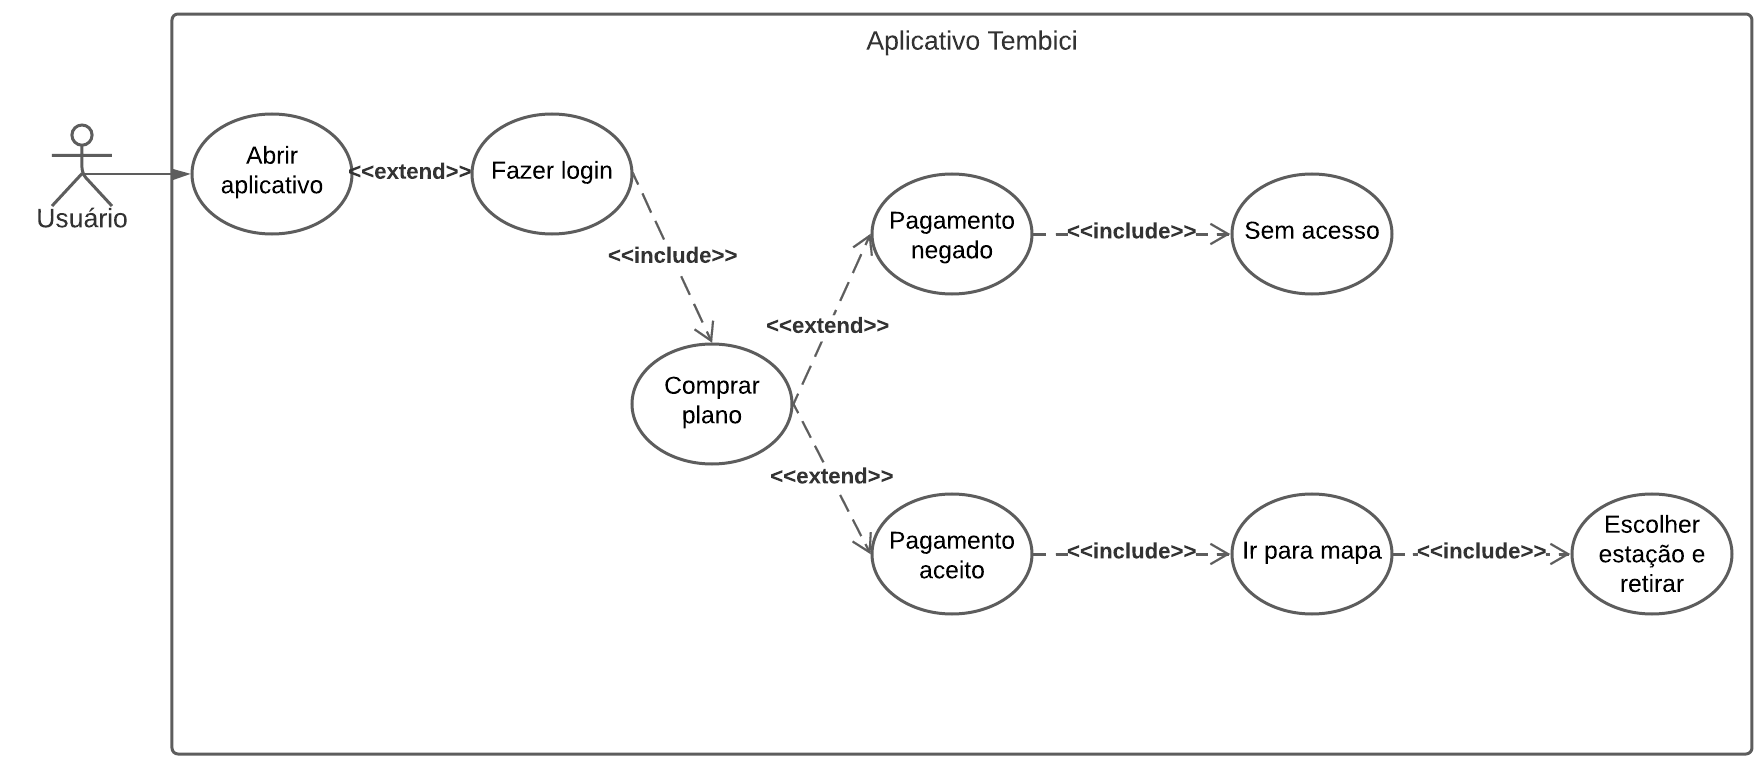
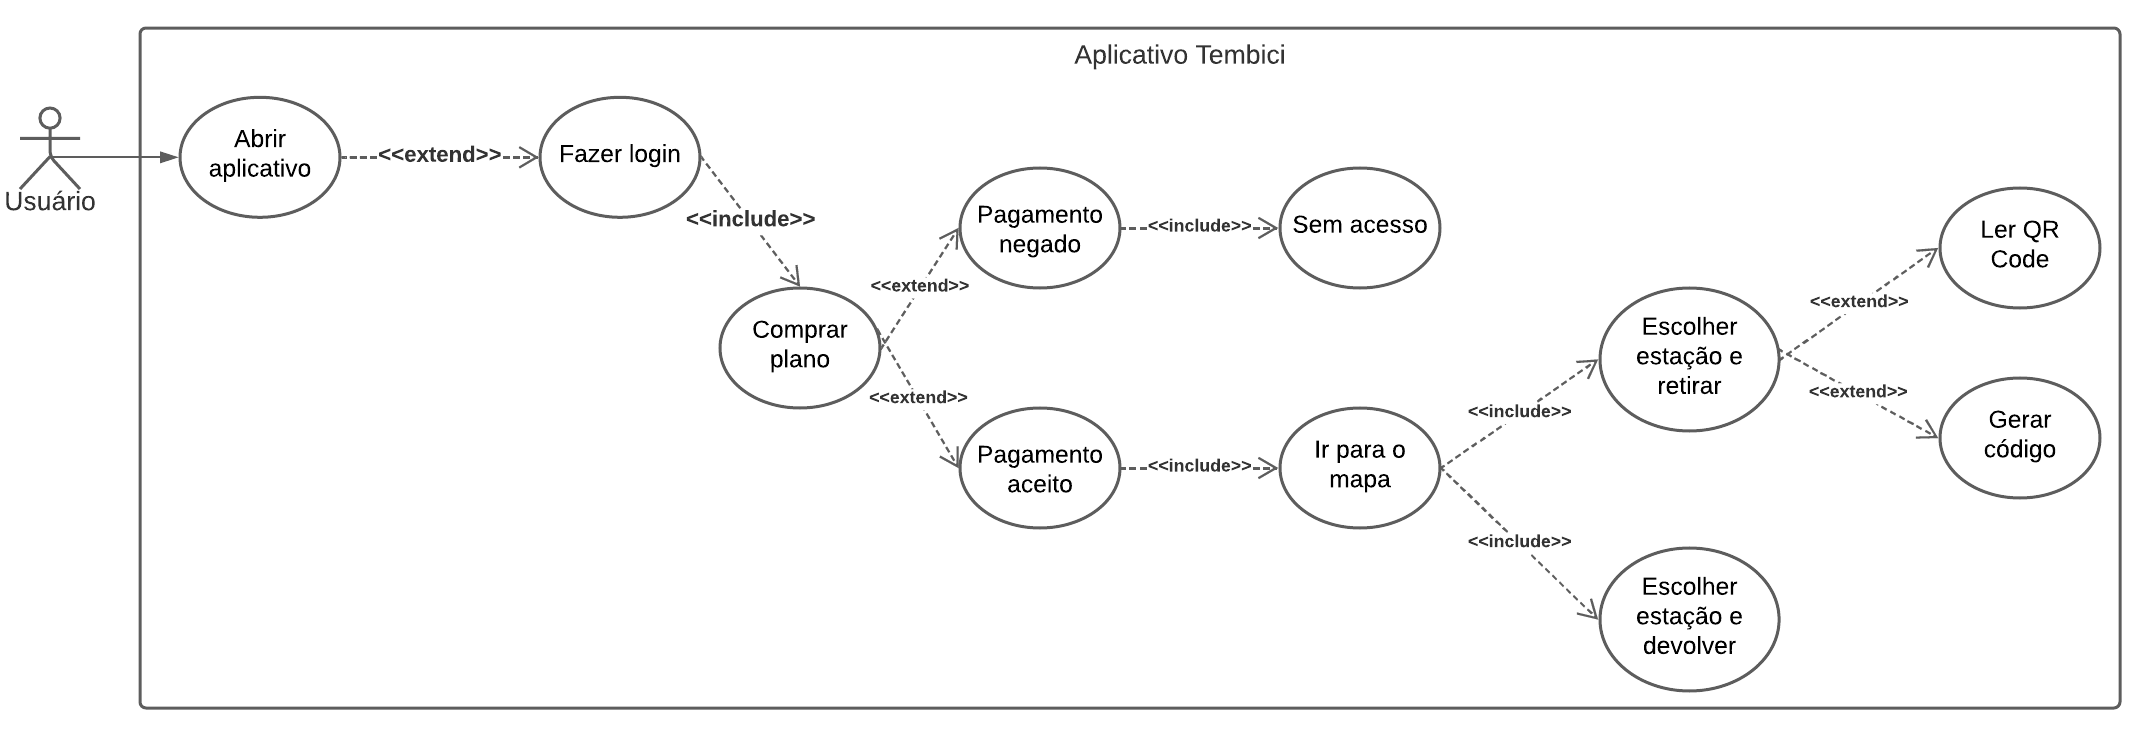
Excluindo o caso de uso 8 e fazendo mudanças no caso de uso 5

diff --git a/docs/modelagem/casos_de_uso.md b/docs/modelagem/casos_de_uso.md
@@ -100,7 +100,7 @@
 
 *Tabela 5: Caso de uso 4*
 
-### 5 - Caso de Uso: Realizar viagem
+### 5 - Caso de Uso: Realizar viagem e devolução
 ![Viagem](../assets/modelagem/casos-de-uso/realizar_viagem.png)
 *Imagem 5: Diagrama 5*
 
@@ -108,12 +108,12 @@
 | :-- | :-------------------- | :--------------------------------------------------------------------------------------------------------------------------------------------- |
 | 1   | Versão                | 1.0                                                                                                                                            |
 | 2   | Autor                 | Lívia Rodrigues                                                                                                                                |
-| 3   | Descrição             | O usuário deverá conseguir assinar o plano e retirar a bicicleta para realizar uma viagem                                                      |
+| 3   | Descrição             | O usuário deverá conseguir assinar o plano e retirar a bicicleta para realizar uma viagem e devolver no final do trajeto de acordo com a quantidade de vagas disponível em cada ponto                                                      |
 | 4   | Atores                | Usuário                                                                                                                                        |
 | 5   | Pré-condições         | O usuário ter feito cadastro, login e assinado um plano                                                                                        |
-| 6   | Pós-condições         | Usuário retirar bicicleta para viagem                                                                                                          |
-| 7   | Cenários Principais   | Usuário escolher cidade que deseja pedalar e retirar bicicleta na estação desejada, gerando um código no aplicativo e inserindo na estação ao lado esquerdo da bicicleta ou escaneando o código QR Code encontrado no guidão da bike ou debaixo do banco                                                                     |
-| 8   | Cenários alternativos | Usuário retirar a bicicleta em uma estação e devolver em outra                                                                                 |
+| 6   | Pós-condições         | Usuário retirar bicicleta para viagem e devolver antes do tempo máximo escolhido pelo usuário no plano                                                                                                        |
+| 7   | Cenários Principais   | Usuário escolher cidade que deseja pedalar e retirar bicicleta na estação desejada, gerando um código no aplicativo (inserindo na estação ao lado esquerdo da bicicleta) ou escaneando o código QR Code (encontrado no guidão da bicicleta ou debaixo do banco), e devolvendo após o trajeto de acordo com a quantidade de vagas disponível em cada ponto, visualizando o tempo de posse da bicicleta no aplicativo e com atenção para quando o aplicativo avisar que o tempo de posse da bicilata está acabando, passado do tempo limite o usuário será cobrado de acordo com o seu plano                                                                     |
+| 8   | Cenários alternativos | Usuário retirar a bicicleta em uma estação e devolver em outra; Usuário passar do tempo limite do seu plano e pagar multa de acordo com o plano escolhido; Usuário fazer viagens extras e ser cobrado por elas                                                                                |
 | 9   | Cenários de exceção   | A compra não ter sido aprovada                                                                                                                 |
 
 *Tabela 6: Caso de uso 5*
@@ -151,24 +151,6 @@
 | 7   | Cenários Principais   | Usuário     conseguir visualizar todos os seus trajetos pelo aplicativo                                                           |
 | 8   | Cenários alternativos |  -                                                                                                                                |
 | 9   | Cenários de exceção   | Usuário não ter feito nenhuma viagem ainda                                                                                        |
-
-*Tabela 8: Caso de uso 7*
-
-### 8 - Caso de Uso: Fazer logout
-![Logout](../assets/modelagem/casos-de-uso/logout.png)
-*Imagem 8: Caso de uso 8*
-
-| Item | Sigla | Definição |
-| :-- | :-------------------- | :------------------------------------------------------------------------------------------------------------- |
-| 1   | Versão                | 1.0                                                                                                            |
-| 2   | Autor                 | Lívia Rodrigues                                                                                                |
-| 3   | Descrição             | O usuário deverá conseguir fazer logout                                                                        |
-| 4   | Atores                | Usuário                                                                                                        |
-| 5   | Pré-condições         | O usuário fazer login                                                                                          |
-| 6   | Pós-condições         | O usuário fazer logout, acessando o menu e escolhendo sair no canto inferior esquerdo                          |
-| 7   | Cenários Principais   | Usuário faz login, entra no aplicativo e deseja sair                                                           |
-| 8   | Cenários alternativos |  -                                                                                                             |
-| 9   | Cenários de exceção   | Usuário continuar logado em sua conta                                                                          |
 
 ## Referências Bibliográficas
 - POHL, Klaus; RUPP, Chris. Fundamentos da Engenharia de Requisitos. Massachusetts: Rockynoock, 2012. (Páginas 92 - 98)
